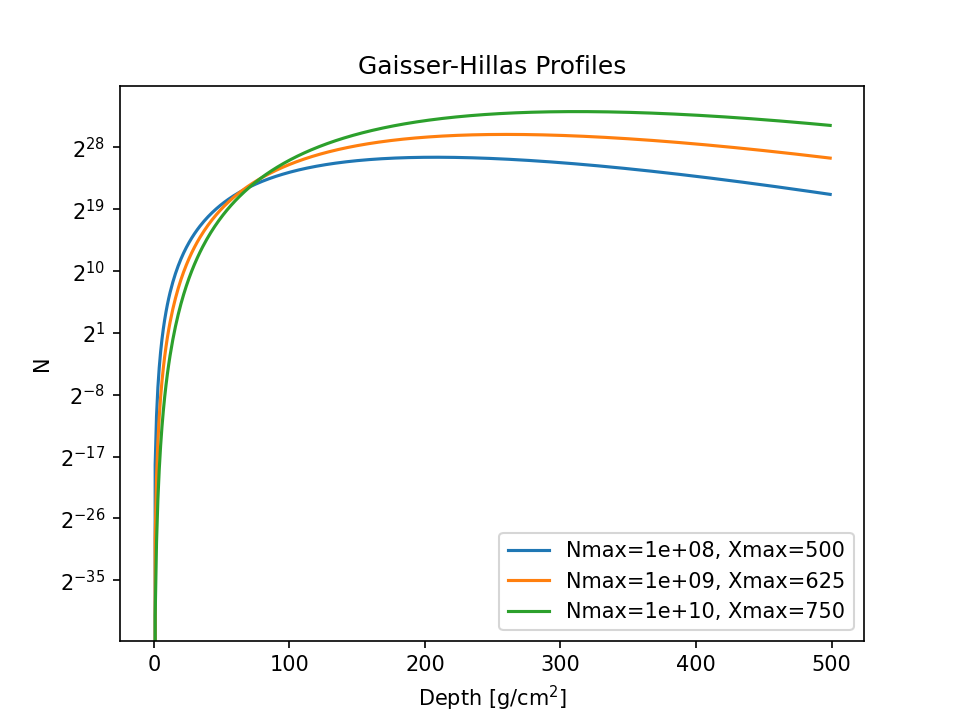
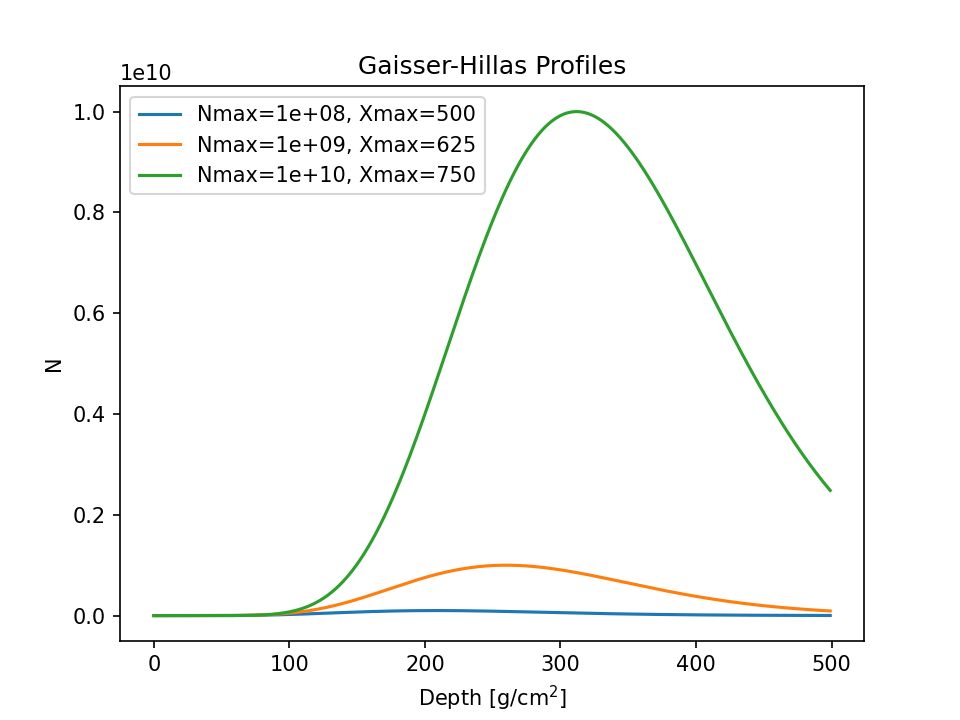
Near finish of Project 2. All code is written. Need comments, update README.md

diff --git a/src/gaisser_hillas.py b/src/gaisser_hillas.py
@@ -1,28 +1,93 @@
-import numpy as np
 import matplotlib.pyplot as plt
+import numpy as np
 from scipy.optimize import curve_fit
 
-# define the gaisser-hillas function
+"""
+Define the gaisser-hillas function
+We must ensure that the base of the function, i.e. (X - X0) / (Xmax - X0) does
+not = 0. We clip those entries and return 0 instead. However, we might still 
+have 0^0 which would then == 1 and cause a jump. That case is removed in the return statement"""
+
+
 def gaisser_hillas(X, Nmax, X0, Xmax, lam):
-    base = np.clip( (X - X0)/(Xmax - X0), 0, None)
+    base = np.clip((X - X0) / (Xmax - X0), 0, None)
     exponent = (Xmax - X0) / lam
-    profile = Nmax * base ** exponent * np.exp( (Xmax - X) / lam )
-    return np.where(X > X0, profile, 0.0) # for edge case where exponent == 0 -> 0^0 = 1, instead of returning 0
+    profile = Nmax * base**exponent * np.exp((Xmax - X) / lam)
+    return np.where(X > X0, profile, 0.0)
+
+
+"""
+# We can calculate the Gaisser-Hillas distribution for a set of paramenters
+# Then using a numpy random number generator, we can create sample noise for
+# an array of the same size, normalize the variance per array element according
+# to the signal strength, and add that to the original distribution to simulate
+# real data."""
+
+
+def noise_generator(true_parameters, noise_fraction=0.05, seed=42):
+    X = np.linspace(1, 1200, 120)
+    profile = gaisser_hillas(X, *true_parameters)
+    rng = np.random.default_rng(seed)
+    noise_to_add = rng.normal(0, noise_fraction * profile)
+    noisy_profile = profile + noise_to_add
+    return X, noisy_profile
+
 
 def main():
     X = np.linspace(0.0, 1200.0, 500)
-    # Nmax_set = [1e6, 1e7, 1e8]
-    # Xmax_set = [1e3, 2e3, 4e3]
-    # lam ~ 70.0
-    #
     for Nmax, Xmax in [(1e8, 500), (1e9, 625), (1e10, 750)]:
-        plt.plot(gaisser_hillas(X, Nmax, 0.0, Xmax, 70.0), label=f'Nmax={Nmax:.0e}, Xmax={Xmax}')
+        plt.plot(
+            gaisser_hillas(X, Nmax, 0.0, Xmax, 70.0),
+            label=f"Nmax={Nmax:.0e}, Xmax={Xmax}",
+        )
     plt.xlabel("Depth [g/cm$^2$]")
     plt.ylabel("N")
     plt.title("Gaisser-Hillas Profiles")
     plt.legend()
     plt.savefig("figures/gaisser_hillas_test.png", dpi=150)
     plt.clf()
+
+    true_parameters = [1e9, 0.0, 650.0, 70.0]
+    guess_parameters = [8e8, 0.0, 600.0, 60.0]
+
+    X, noisy_profile = noise_generator(true_parameters)
+    popt, pcov = curve_fit(gaisser_hillas, X, noisy_profile, p0=guess_parameters)
+    perr = np.sqrt(np.diag(pcov))
+    best_fit = gaisser_hillas(X, *popt)
+
+    fig, axs = plt.subplots(2, 1, sharex=True, gridspec_kw={"height_ratios": [3, 1]})
+
+    axs[0].scatter(X, noisy_profile, s=10, alpha=0.5, label="noise", marker="+")
+    axs[0].plot(X, best_fit, "r-", label="best fit")
+    axs[0].set_ylabel("N")
+    axs[0].legend()
+    axs[0].set_title("Gaisser-Hillas Fit")
+
+    axs[1].scatter(X, noisy_profile - best_fit, marker="x")
+    axs[1].axhline(0, color="k", lw=0.5)
+    axs[1].set_xlabel("Depth [g/cm$^2$]")
+    axs[1].set_ylabel("Residual")
+    plt.tight_layout()
+    plt.savefig("figures/gh_fit.png", dpi=150)
+    plt.clf()
+
+    names = ["Nmax", "X0", "Xmax", "lambda"]
+    for name, t, f, e in zip(names, true_parameters, popt, perr):
+        print(f"{name:12s}:  true={t:13.2f}  fit={f:13.2f}  +/- {e:13.2f}")
+
+    energies = [1e7, 1e8, 1e9, 1e10]
+    xmax_values = []
+    for i, E0 in enumerate(energies):
+        tp = [E0 / 0.085, 0.0, 450.0 + 70.0 * np.log10(E0 / 1e7), 70.0]
+        dX, dY = noise_generator(tp, seed=i)
+        po, _ = curve_fit(gaisser_hillas, dX, dY, p0=tp)
+        xmax_values.append(po[2])
+        print(
+            f"E0={E0:.0e}, guess Xmax={tp[2]:.1f}, fitted Xmax={po[2]:.1f}, fitted lam={po[3]:.1f}"
+        )
+    slope, intercept = np.polyfit(np.log10(energies), xmax_values, 1)
+    print(f"Elongation rate: {slope:.1f} g/cm$^2$ per decade")
+
 
 if __name__ == "__main__":
     main()
